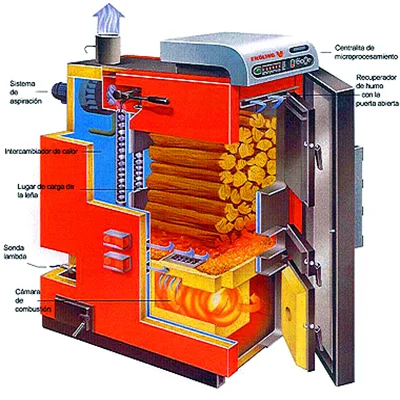
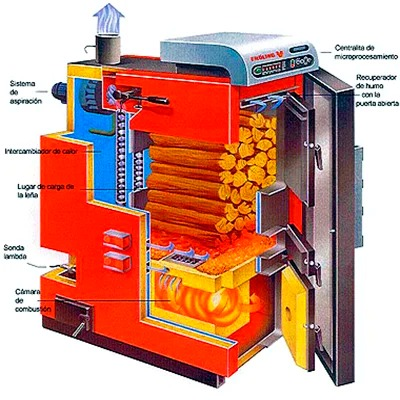
Imágenes de la sección de tecnologías de conversión

diff --git a/Capitulos/03_tecnologias_conversion.tex b/Capitulos/03_tecnologias_conversion.tex
@@ -27,6 +27,13 @@ Fisicoquímica & Extracción + transesterificación & Aceite + alcohol + cataliz
 \end{tabularx}
 \end{table}
 
+\begin{figure}[H]
+    \centering
+    \includegraphics[width=0.9\textwidth]{Figuras/Sección B - Tecnologías de Conversión/Tecnologías de Conversión.jpg}
+    \caption{Principales rutas de transformación de la biomasa en productos energéticos. Cada ruta depende de la naturaleza de la materia prima y del producto que se desea obtener}
+    \label{}
+\end{figure}
+
 \section{Combustión directa}
 \label{sec:combustion}
 
@@ -46,6 +53,13 @@ De forma global, la reacción de oxidación completa con aire puede representars
 \mathrm{CH}_x\mathrm{O}_y + a\left(\mathrm{O_2} + 3{,}76\,\mathrm{N_2}\right) \longrightarrow \mathrm{CO_2} + \mathrm{H_2O} + \mathrm{N_2} + \text{calor}
 \end{equation}
 Una combustión eficiente exige cumplir las denominadas «tres T»: \textit{temperatura} suficiente, \textit{tiempo de residencia} adecuado y \textit{turbulencia} para mezclar aire y gases. El aire se suministra escalonado en aire primario (bajo la parrilla o el lecho) y aire secundario (sobre el lecho, para quemar los volátiles), con excesos de aire típicos de 20--60~\%. Los principales contaminantes y sus sistemas de control se resumen en la Tabla~\ref{tab:emisiones_combustion}.
+
+\begin{figure}[H]
+    \centering
+    \includegraphics[width=0.9\textwidth]{Figuras/Sección B - Tecnologías de Conversión/Etapas de combustión de una partícula de biomasa.jpg}
+    \caption{Etapas de secado, liberación de volátiles, combustión del carbonizado y formación de cenizas. Es la imagen más directamente relacionada con la explicación de tu mecanismo de combustión}
+    \label{}
+\end{figure}
 
 \begin{table}[htbp]
 \centering
@@ -88,6 +102,25 @@ La caldera integra el hogar, paredes de agua, sobrecalentador, economizador y pr
 \begin{equation}
 \eta_{\mathrm{caldera}} = \frac{\dot{Q}_{\text{útil}}}{\dot{m}_{\mathrm{comb}} \cdot \mathrm{PCI}}
 \end{equation}
+
+\begin{figure}[H]
+    \centering
+    \begin{subfigure}[b]{0.48\textwidth}
+        \centering
+        \includegraphics[width=\textwidth]{Figuras/Sección B - Tecnologías de Conversión/Combustión directa - CALDERA.jpg}
+        \caption{Esquema de una caldera de combustión invertida para leña con sistema de tiro inducido, regulación por sonda lambda e intercambiador de calor vertical}
+    \end{subfigure}
+    \hfill
+    \begin{subfigure}[b]{0.48\textwidth}
+        \centering
+        \includegraphics[width=\textwidth]{Figuras/Sección B - Tecnologías de Conversión/Combustión directa - Combustión en parrilla.jpg}
+        \caption{Caldera de biomasa de parrilla escalonada móvil con bóvedas refractarias, intercambiador pirotubular horizontal y separador multiciclónico integrado}
+    \end{subfigure}
+
+    \caption{Tecnologías de calderas empleadas en la combustión directa de biomasa sólida}
+    \label{fig:grupo_tres}
+\end{figure}
+
 Las principales pérdidas corresponden a los gases secos de chimenea (la mayor pérdida, creciente con el exceso de aire y temperatura de salida), la evaporación de la humedad del combustible, los inquemados (carbono en cenizas y $\mathrm{CO}$), y la radiación, convección y purgas. En parámetros de vapor, las plantas pequeñas operan a 20--60~bar y 400--450~\textdegree C, mientras que las grandes alcanzan 100--165~bar y 500--540~\textdegree C (límite impuesto por la corrosión por cenizas).
 
 Como balance energético orientativo para una central dedicada mediana, de cada 100 unidades de energía del combustible (sobre PCI), entre 85 y 90 se transfieren al vapor; unas 55--60 se rechazan en el condensador; cerca de 30 salen como trabajo en el eje de la turbina; y tras descontar pérdidas de generador y consumos auxiliares (ventiladores, bombas y manejo de combustible, que representan 8--10~\% de la generación bruta), resultan alrededor de 25--28 unidades de electricidad neta.
@@ -98,6 +131,13 @@ Los ciclos termodinámicos aplicados son:
 \item \textbf{Ciclo Rankine Orgánico (ORC):} Sustituye el agua por un fluido orgánico de bajo punto de ebullición (siloxanos o hidrocarburos) calentado mediante aceite térmico. Se emplea entre 0,2 y $5~\mathrm{MW_e}$ con eficiencia eléctrica de 15--20~\%, destacando por su operación automatizada, buen desempeño a carga parcial y ausencia de planta de tratamiento de agua.
 \item \textbf{Co-combustión y conversión total:} La co-combustión quema biomasa junto con carbón de forma directa (mezcla en molinos o quemadores), indirecta (gasificación previa) o paralela (caldera independiente). Es comercialmente viable hasta un 20~\% en base energética y técnicamente puede superar el 50~\%, alcanzando eficiencias eléctricas de 36--44~\% \cite{irena2013cofiring}. El paso siguiente es la conversión total de la central, como en el caso de Drax \cite{drax2025annual}.
 \end{itemize}
+
+\begin{figure}[H]
+    \centering
+    \includegraphics[width=0.9\textwidth]{Figuras/Sección B - Tecnologías de Conversión/Combustión directa - Generación de electricidad.jpg}
+    \caption{Esquema de generación eléctrica mediante combustión de biomasa y ciclo Rankine}
+    \label{}
+\end{figure}
 
 \section{Gasificación}
 \label{sec:gasificacion}
@@ -167,6 +207,20 @@ Flujo arrastrado & Partícula fina ($>1\,200$~\textdegree C) & Muy grande & Gas 
 
 El principal obstáculo técnico de la gasificación son los \textbf{alquitranes}, hidrocarburos pesados que condensan al enfriarse y obstruyen filtros, válvulas y motores. Para su uso en motores de combustión interna, el gas debe enfriarse y limpiarse mediante ciclones, filtros, lavadores (\textit{scrubbers}) o craqueo catalítico hasta niveles inferiores a 50--100~mg/Nm$^3$ de alquitrán \cite{fao1986woodgas}. Acoplado a motores de gas (o motores diésel en modo dual), el conjunto alcanza eficiencias eléctricas de 20--30~\%, mientras que la gasificación integrada en ciclo combinado (BIGCC) proyecta 35--45~\%, aunque permanece en fase de demostración \cite{ieabioenergy2025task33}.
 
+\begin{figure}[H]
+    \centering
+    \includegraphics[width=0.8\textwidth]{Figuras/Sección B - Tecnologías de Conversión/Comparación de los tipos de gasificadores.jpg}
+    \caption{Comparación esquemática de diferentes configuraciones de gasificadores, incluyendo lecho fijo ascendente (updraft), descendente (downdraft), lecho fluidizado y flujo arrastrado. Se muestran las direcciones de alimentación de biomasa, entrada del agente gasificante y salida del gas producido}
+    \label{}
+\end{figure}
+
+\begin{figure}[H]
+    \centering
+    \includegraphics[width=0.8\textwidth]{Figuras/Sección B - Tecnologías de Conversión/Aprovechamiento energético del syngas.jpg}
+    \caption{Conjunto motor-generador diseñado para utilizar gas de síntesis como combustible. La combustión del gas dentro del motor produce energía mecánica que acciona un generador eléctrico, permitiendo transformar la energía química del syngas en electricidad}
+    \label{}
+\end{figure}
+
 \section{Pirólisis}
 \label{sec:pirolisis}
 
@@ -175,6 +229,12 @@ La pirólisis es la descomposición térmica de la biomasa en ausencia total de 
 m_{\mathrm{biomasa}} = m_{\text{bio-oil}} + m_{\mathrm{biochar}} + m_{\mathrm{gas}}
 \end{equation}
 La proporción relativa depende de la temperatura, velocidad de calentamiento y tiempo de residencia de los vapores (Tabla~\ref{tab:pirolisis_modos}). La pirólisis rápida emplea reactores de lecho fluidizado burbujeante, cono rotatorio o tornillo sinfín con condensación brusca de vapores.
+
+\begin{figure}[H]
+    \centering
+    \includegraphics[width=0.8\textwidth]{Figuras/Sección B - Tecnologías de Conversión/Conversón termoquímica - Diagrama de pirólisis.jpg}
+    \caption{Diagrama de flujo del proceso de pirólisis de biomasa, incluyendo las etapas de pretratamiento, reacción y separación de productos (biocarbón, bioaceite y gas).}
+\end{figure}
 
 \begin{table}[htbp]
 \centering
@@ -216,6 +276,12 @@ Miscibilidad con hidrocarburos & No miscible & --- \\
 \label{sec:digestion}
 
 La digestión anaeróbica es un proceso bioquímico en el que un consorcio de microorganismos descompone la materia orgánica en ausencia de oxígeno para producir \textbf{biogás} y un residuo estabilizado rico en nutrientes denominado \textbf{digestato} \cite{alseadi2008biogas, idae2007digestores}. Constituye la ruta idónea para sustratos muy húmedos (estiércoles, lodos de depuradoras, efluentes agroindustriales y fracción orgánica de residuos urbanos), inviables en rutas térmicas \cite{ieabioenergy2024task37}.
+
+\begin{figure}[H]
+    \centering
+    \includegraphics[width=0.8\textwidth]{Figuras/Sección B - Tecnologías de Conversión/Esquema general del proceso de digestión anaeróbica.jpg}
+    \caption{Representación de las principales etapas de una planta de digestión anaeróbica, desde la alimentación de residuos orgánicos hasta su descomposición en el digestor}
+\end{figure}
 
 \subsection{Etapas y parámetros de operación}
 El proceso biológico transcurre en cuatro etapas secuenciales:
@@ -269,6 +335,12 @@ Ensilaje de maíz & 170--220 \\
 
 Para ilustrar la escala, un motogenerador de $1~\mathrm{MW_e}$ al 38~\% de eficiencia requiere $1 / 0{,}38 \approx 2{,}63~\mathrm{MW_{th}}$ de biogás ($\approx 440~\text{Nm}^3/\text{h}$ o $10\,600~\text{Nm}^3/\text{día}$ a $21{,}5~\text{MJ/Nm}^3$). Con estiércol a $25~\text{Nm}^3/\text{t}$, ello exige $\approx 420~\text{t/día}$ y un digestor de $V \approx 420 \times 25 \approx 10\,500~\text{m}^3$ ($\mathrm{TRH}=25$~días), razón por la cual estas plantas suelen ser de pequeña escala o recurren a co-digestión. Entre los reactores empleados destacan las lagunas cubiertas (climas cálidos y efluentes agroindustriales), reactores de mezcla completa (CSTR), flujo pistón, reactores UASB (aguas industriales de alta carga) y pozos de captación en rellenos sanitarios.
 
+\begin{figure}[H]
+    \centering
+    \includegraphics[width=0.8\textwidth]{Figuras/Sección B - Tecnologías de Conversión/Digestores anaeróbicos industriales.jpg}
+    \caption{Instalación industrial compuesta por digestores de gran volumen, donde la materia orgánica permanece en condiciones anaeróbicas para favorecer la actividad de los microorganismos metanogénicos. Estos reactores permiten procesar grandes cantidades de residuos orgánicos y producir biogás de manera continua}
+\end{figure}
+
 Antes de alimentar motores o inyectarse a red, el biogás se seca y desulfura (para remover el $\mathrm{H_2S}$ corrosivo y siloxanos en gas de relleno). Mediante separación de $\mathrm{CO_2}$ (lavado con agua, PSA o membranas) se obtiene \textit{biometano} ($>95~\%~\mathrm{CH_4}$). La IEA estima un potencial global sostenible cercano a $10^{12}~\text{m}^3$ equivalentes de gas natural al año, del cual hoy se aprovecha menos del 5~\% (1,76~EJ en 2023) \cite{iea2025biogas, wba2025gbsr}.
 
 \section{Comparación de rutas para generación eléctrica}
@@ -276,7 +348,7 @@ Antes de alimentar motores o inyectarse a red, el biogás se seca y desulfura (p
 
 La Tabla~\ref{tab:comparacion_rutas} sintetiza el desempeño eléctrico, la escala típica y la madurez comercial de las distintas tecnologías analizadas. No existe una opción universalmente superior: la combustión con ciclo Rankine domina en mediana y gran escala con biomasa sólida; la gasificación y el ORC atienden nichos descentralizados; y la digestión anaeróbica con motogeneradores lidera en residuos húmedos.
 
-\begin{table}[htbp]
+\begin{table}[H]
 \centering
 \caption{Comparación de sistemas de generación eléctrica con biomasa (valores orientativos).}
 \label{tab:comparacion_rutas}
@@ -294,3 +366,27 @@ Pirólisis + motor o turbina & --- & --- & Precomercial \\
 \bottomrule
 \end{tabularx}
 \end{table}
+
+\begin{figure}[H]
+    \centering
+    \includegraphics[width=0.9\textwidth]{Figuras/Sección B - Tecnologías de Conversión/Generación eléctrica mediante ciclo Rankine orgánico (ORC).jpg}
+    \caption{Generación eléctrica mediante ciclo Rankine orgánico (ORC): El calor procedente de una fuente térmica se transfiere a un fluido orgánico de bajo punto de ebullición. El vapor generado acciona una turbina conectada a un generador eléctrico y posteriormente se condensa para retornar al evaporador, cerrando el ciclo. Esta tecnología permite aprovechar fuentes de calor de temperaturas relativamente bajas}
+\end{figure}
+
+\begin{figure}[H]
+    \centering
+    \includegraphics[width=0.75\textwidth]{Figuras/Sección B - Tecnologías de Conversión/Generación eléctrica mediante combustión directa y ciclo Rankine.jpg}
+    \caption{Generación eléctrica mediante combustión directa y ciclo Rankine: Sistema de generación eléctrica en el que la biomasa sólida se quema en una caldera para producir vapor de agua a alta presión y temperatura. Este vapor se expande en una turbina acoplada a un generador eléctrico, mientras que posteriormente se condensa y recircula para completar el ciclo termodinámico}
+\end{figure}
+
+\begin{figure}[H]
+    \centering
+    \includegraphics[width=0.75\textwidth]{Figuras/Sección B - Tecnologías de Conversión/Gasificación de biomasa para generación eléctrica.jpg}
+    \caption{Gasificación de biomasa para generación eléctrica: Proceso de conversión termoquímica de biomasa sólida en un gas combustible mediante su reacción a temperaturas elevadas con una cantidad controlada de agente gasificante. El gas producido, compuesto principalmente por monóxido de carbono, hidrógeno y metano, pasa por un sistema de acondicionamiento y limpieza antes de alimentar un motor de combustión interna acoplado a un generador eléctrico}
+\end{figure}
+
+\begin{figure}[H]
+    \centering
+    \includegraphics[width=0.8\textwidth]{Figuras/Sección B - Tecnologías de Conversión/Generación eléctrica mediante biogás y ciclo de cogeneración.jpg}
+    \caption{Generación eléctrica mediante biogás y ciclo de cogeneración: Utiliza el biogás producido en un digestor anaeróbico como combustible para alimentar un motor de combustión interna acoplado a un generador eléctrico. Además de producir electricidad, el sistema recupera el calor residual de los gases de escape y del circuito de refrigeración del motor para su aprovechamiento térmico, incrementando la eficiencia energética global de la instalación}
+\end{figure}

diff --git a/Capitulos/02_fundamentos.tex b/Capitulos/02_fundamentos.tex
@@ -85,14 +85,14 @@ En el contexto biológico, la biomasa vegetal abarca los residuos agrícolas, fo
         \centering
         \includegraphics[width=\textwidth]{Figuras/Sección A - Fundamentos de Biomasa/Fuente de biomasa agrícola (2).jpg}
         \caption{Fuente de biomasa agrícola}
-        \label{fig:biomasa_agricola}
+        \label{}
     \end{subfigure}
     \hfill
     \begin{subfigure}[b]{0.48\textwidth}
         \centering
         \includegraphics[width=\textwidth]{Figuras/Sección A - Fundamentos de Biomasa/Fuente de biomasa forestal (1).jpg}
         \caption{Fuente de biomasa forestal}
-        \label{fig:biomasa_forestal}
+        \label{}
     \end{subfigure}
 
     \vspace{0.4cm} % Separación vertical entre la fila de arriba y la de abajo
@@ -102,18 +102,18 @@ En el contexto biológico, la biomasa vegetal abarca los residuos agrícolas, fo
         \centering
         \includegraphics[width=\textwidth]{Figuras/Sección A - Fundamentos de Biomasa/Fuente de biomasa industrial (2).jpg}
         \caption{Fuente de biomasa agroindustrial}
-        \label{fig:biomasa_agroindustrial}
+        \label{}
     \end{subfigure}
     \hfill
     \begin{subfigure}[b]{0.48\textwidth}
         \centering
         \includegraphics[width=\textwidth]{Figuras/Sección A - Fundamentos de Biomasa/Fuente de biomasa animal (1).jpg}
         \caption{Fuente de biomasa ganadera}
-        \label{fig:biomasa_ganadera}
+        \label{}
     \end{subfigure}
 
     \caption{Clasificación de las principales fuentes de biomasa.}
-    \label{fig:fuentes_biomasa}
+    \label{}
 \end{figure}
 
 \section{Clasificación por estado físico}
@@ -230,14 +230,14 @@ Torrefacción & Tratamiento térmico suave (200--300~\textdegree C) en ausencia 
         \centering
         \includegraphics[width=\textwidth]{Figuras/Sección A - Fundamentos de Biomasa/Pretratamiento y logística de suministro - Secado de biomasa en secador rotatorio.jpg}
         \caption{Secado industrial de astillas de madera mediante un secador rotatorio, que reduce el contenido de humedad antes de introducir el combustible en la caldera.}
-        \label{fig:biomasa_agricola}
+        \label{}
     \end{subfigure}
     \hfill
     \begin{subfigure}[b]{0.48\textwidth}
         \centering
         \includegraphics[width=\textwidth]{Figuras/Sección A - Fundamentos de Biomasa/Pretratamiento y logística de suministro - Reducción de tamaño mediante astilladora.jpg}
         \caption{Máquina utilizada para triturar y fragmentar residuos de madera, obteniendo partículas de tamaño más uniforme para facilitar su transporte, almacenamiento y alimentación al reactor}
-        \label{fig:biomasa_agricola}
+        \label{}
     \end{subfigure}
 
     \vspace{0.4cm}
@@ -246,7 +246,7 @@ Torrefacción & Tratamiento térmico suave (200--300~\textdegree C) en ausencia 
         \centering
         \includegraphics[width=\textwidth]{Figuras/Sección A - Fundamentos de Biomasa/Pretratamiento y logística de suministro - Densificación mediante peletizadora.jpg}
         \caption{Compactación mecánica de aserrín y otros residuos lignocelulósicos mediante presión, formando pellets cilíndricos de mayor densidad aparente y energética volumétrica}
-        \label{fig:biomasa_agroindustrial}
+        \label{}
     \end{subfigure}
     \hfill
     \begin{subfigure}[b]{0.48\textwidth}
